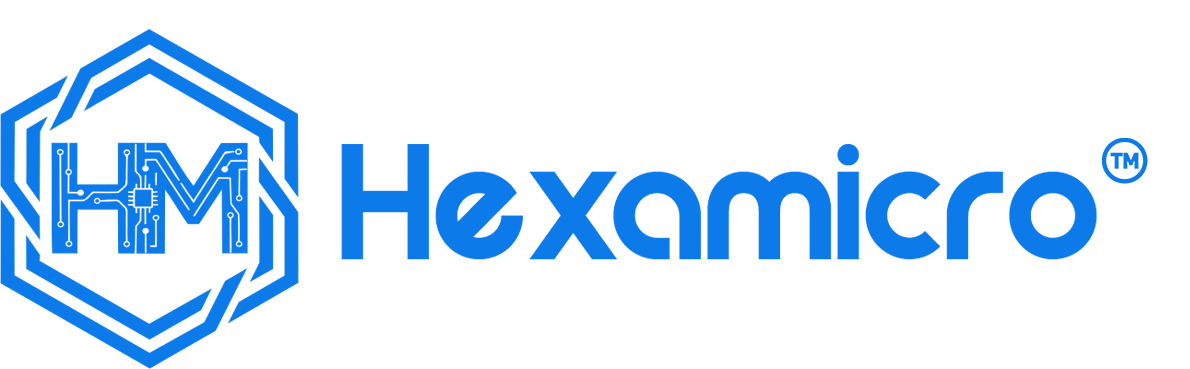
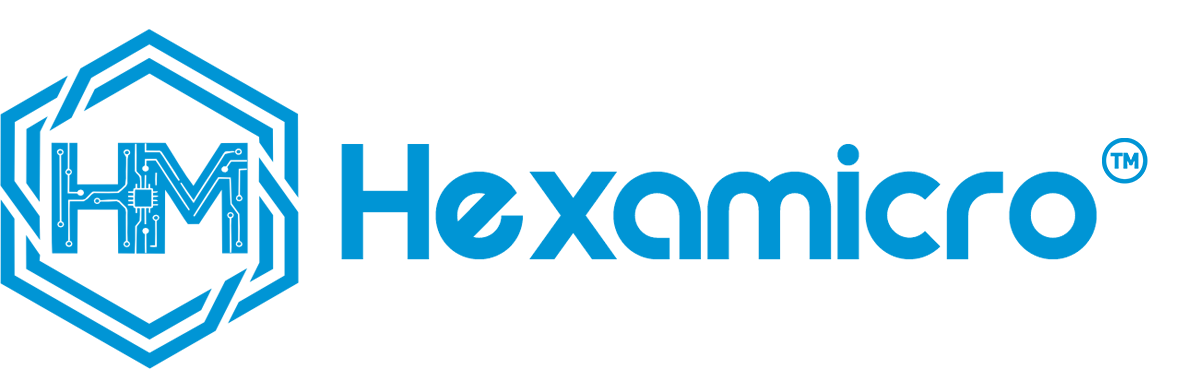
changes done

Changed region(s): [[0.2798, 0.3577, 0.9639, 0.7154], [0.0, 0.0894, 0.2487, 1.0]]

diff --git a/src/components/Industries/IndustryCard.jsx b/src/components/Industries/IndustryCard.jsx
@@ -8,12 +8,12 @@ const animations = {
 }
 
 const iconColors = {
-  industrial: { bg: '#c5eeaa', color: '#0e302e' },
-  retail:     { bg: '#c5eeaa', color: '#0e302e' },
-  buildings:  { bg: '#c5eeaa', color: '#0e302e' },
-  healthcare: { bg: '#c5eeaa', color: '#0e302e' },
-  banking:    { bg: '#c5eeaa', color: '#0e302e' },
-  broadcast:  { bg: '#c5eeaa', color: '#0e302e' },
+  industrial: { bg: '#c5eeaa', color: '#0095d5' },
+  retail:     { bg: '#c5eeaa', color: '#0095d5' },
+  buildings:  { bg: '#c5eeaa', color: '#0095d5' },
+  healthcare: { bg: '#c5eeaa', color: '#0095d5' },
+  banking:    { bg: '#c5eeaa', color: '#0095d5' },
+  broadcast:  { bg: '#c5eeaa', color: '#0095d5' },
 }
 
 const iconMap = {

diff --git a/src/components/Footer/Footer.css b/src/components/Footer/Footer.css
@@ -5,14 +5,14 @@ footer {
   display: flex;
   align-items: center;
   justify-content: space-between;
-  background: #0e302e;
+  background: #0095d5;
 }
 
 .footer-copy {
   font-family: "Onest", Arial, Helvetica, sans-serif;
   font-size: 0.65rem;
   letter-spacing: 0.06em;
-  color: #c4c3c3;
+  color: #fff;
 }
 
 .footer-links {
@@ -24,7 +24,7 @@ footer {
   font-family: "Onest", Arial, Helvetica, sans-serif;
   font-size: 0.8rem;
   font-weight: 500;
-  color: #c4c3c3;
+  color: #dbdbdb;
   text-decoration: none;
   transition: color 0.2s;
 }

diff --git a/src/components/CTABanner/CTABanner.css b/src/components/CTABanner/CTABanner.css
@@ -1,6 +1,6 @@
 /* ─── CTA BANNER ─── */
 #cta {
-  background: var(--accent);
+  background: #0095d5;
   text-align: center;
   padding: 4rem 4rem;
   position: relative;
@@ -71,12 +71,12 @@
 
 /* Split button on dark background — white arrow box for contrast */
 #cta .btn-primary::after {
-  background: #fff;
+  background: #d5d8d9;
   color: var(--accent);
 }
 
 #cta .btn-primary:hover::after {
-  background: #e8f5e0;
+  background: #cbd3c6;
   transform: translateX(3px);
 }
 

diff --git a/src/styles/global.css b/src/styles/global.css
@@ -97,8 +97,8 @@ section {
   font-size: 0.9rem;
   font-weight: 600;
   letter-spacing: 0.01em;
-  color: var(--text);
-  background: #c5eeaa;
+  color: #fff;
+  background: #024d6d;
   padding: 0.45rem 0.45rem 0.45rem 1.4rem;
   text-decoration: none;
   cursor: pointer;
@@ -122,8 +122,9 @@ section {
 }
 
 .btn-primary:hover {
-  background: #b4e497;
+  background: #fff;
   transform: translateY(-1px);
+  color: #024d6d;
 }
 
 .btn-primary:hover::after {

diff --git a/src/components/Capabilities/Capabilities.css b/src/components/Capabilities/Capabilities.css
@@ -66,9 +66,9 @@
 }
 
 .cap-card:hover .cap-card-num {
-  background: var(--accent);
+  background:#0095d5;
   color: #fff;
-  border-color: var(--accent);
+  border-color: #0095d5;
 }
 
 .cap-card-body h4 {
@@ -90,7 +90,7 @@
   display: flex;
   align-items: center;
   gap: 2.5rem;
-  background: var(--accent);
+  background: #0095d5;
   border-radius: 10px;
   padding: 2.25rem 2.75rem;
   overflow: hidden;

diff --git a/src/components/Process/Process.css b/src/components/Process/Process.css
@@ -128,7 +128,7 @@
   display: inline-flex;
   align-items: center;
   gap: 5px;
-  background: #0e302e;
+  background: #0095d5;
   color: #fff;
   font-family: "Onest", Arial, Helvetica, sans-serif;
   font-size: 0.68rem;
@@ -145,7 +145,7 @@
   font-family: "Onest", Arial, Helvetica, sans-serif;
   font-size: 1rem;
   font-weight: 700;
-  color: var(--text);
+  color:#0095d5;
   margin-bottom: 0.5rem;
 }
 

diff --git a/src/components/Products/Products.css b/src/components/Products/Products.css
@@ -55,7 +55,7 @@
 .product-icon-wrap {
   width: 52px;
   height: 52px;
-  color: var(--accent);
+  color:#0095d5;
   margin-bottom: 1.4rem;
   flex-shrink: 0;
 }
@@ -89,7 +89,7 @@
   font-family: "Onest", Arial, Helvetica, sans-serif;
   font-size: 0.875rem;
   font-weight: 500;
-  color: var(--accent);
+  color:#0095d5 ;
   text-decoration: none;
   transition: opacity 0.2s;
 }

diff --git a/src/components/Footer/Footer.jsx b/src/components/Footer/Footer.jsx
@@ -18,7 +18,7 @@ export default function Footer() {
   return (
     <footer>
       <div className="footer-copy">
-        &copy; 2025 Hexamicro Technologies Inc. &nbsp;|&nbsp; All rights reserved.
+        &copy; 2026 Hexamicro Technologies Inc. &nbsp;|&nbsp; All rights reserved.
       </div>
 
       <div className="footer-links">

diff --git a/src/components/Ticker/Ticker.jsx b/src/components/Ticker/Ticker.jsx
@@ -6,9 +6,6 @@ const tickerItems = [
   'Industrial PCs',
   'Self-Service Kiosks',
   'Mini PCs',
-  'All-In-One PCs',
-  'Rack Servers',
-  'Networking Appliances',
   'Active LED Displays',
   'Digital Signage',
   'Custom Assembly',

diff --git a/src/components/Contact/Contact.css b/src/components/Contact/Contact.css
@@ -207,7 +207,7 @@
 
 /* Send Enquiry button override */
 .contact-form .btn-primary {
-  background: #0e302e;
+  background: #0095d5;
   color: #fff;
 }
 

diff --git a/src/components/Ticker/Ticker.css b/src/components/Ticker/Ticker.css
@@ -1,6 +1,6 @@
 /* ─── TICKER ─── */
 .ticker {
-  background: var(--accent);
+  background: #0095d5;
   padding: 0;
   overflow: hidden;
 }
